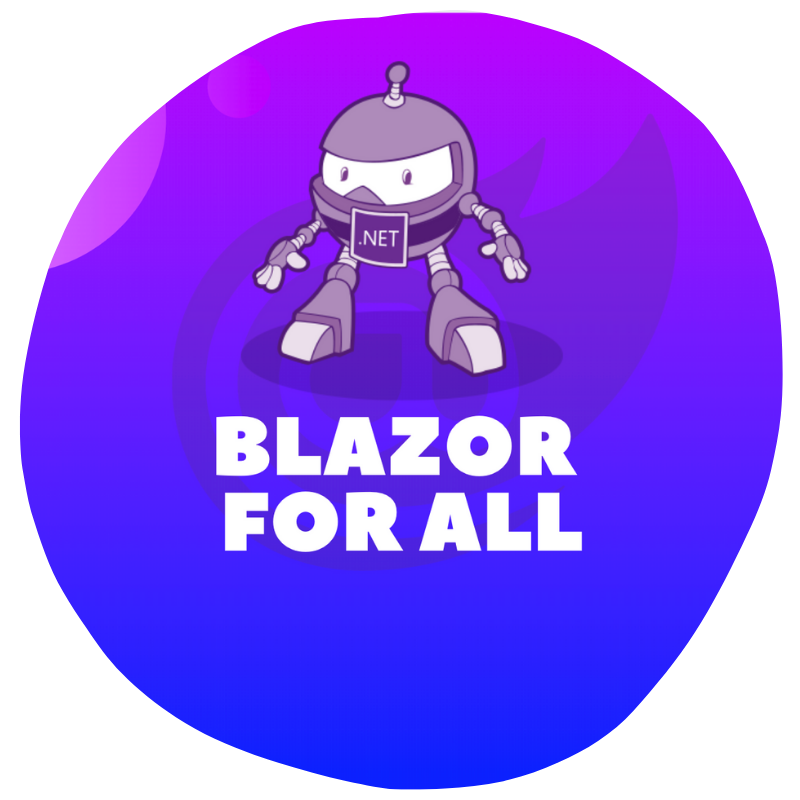
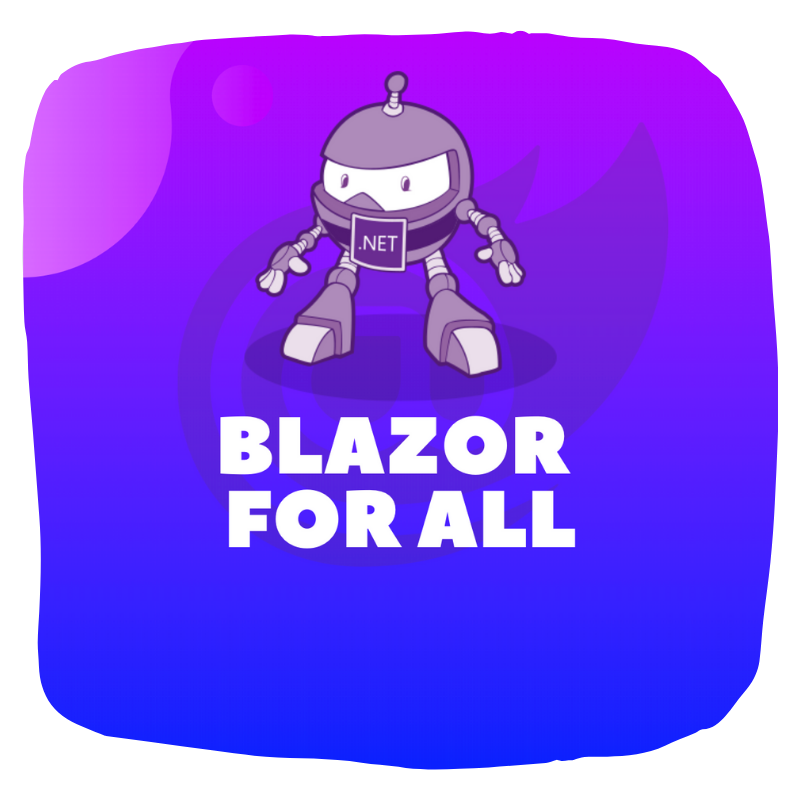
Cosmetic changes, colors, margins, changes in names for CSS rules (more generic names), navbar borders, background color for carousel section

diff --git a/index.html b/index.html
@@ -14,6 +14,7 @@
       <meta name="description" content="">
       
       <link rel="stylesheet" href="https://maxcdn.bootstrapcdn.com/bootstrap/4.0.0/css/bootstrap.min.css" integrity="sha384-Gn5384xqQ1aoWXA+058RXPxPg6fy4IWvTNh0E263XmFcJlSAwiGgFAW/dAiS6JXm" crossorigin="anonymous">
+      <link rel="stylesheet" href="https://stackpath.bootstrapcdn.com/font-awesome/4.7.0/css/font-awesome.min.css">
       <link rel="stylesheet" href="css/landing-page.css"> 
 
       <!-- favicon.ico. Place these in the root directory. -->
@@ -47,7 +48,9 @@
             <!-- Fixed navbar -->
             <nav class="navbar navbar-expand-md navbar-dark fixed-top bg-dark blazor-navbar">
               <div class="navbar-brand" href="index.html#">
-                <img class="blazor-logo" src="img/blazorLogo.png" alt="Blazor for all">
+                <a href="https://dotnet.microsoft.com/apps/aspnet/web-apps/blazor" target="_blank">
+                  <img class="blazor-logo" src="img/blazorLogo.png" alt="Blazor for all">
+                </a>
               </div>
               <button class="navbar-toggler" type="button" data-toggle="collapse" data-target="#navbarCollapse" aria-controls="navbarCollapse" aria-expanded="false" aria-label="Toggle navigation">
                 <span class="navbar-toggler-icon"></span>
@@ -75,15 +78,15 @@
           <main role="main" class="container-fluid">
 
             <section id="info" class="row">
-              <div class="col-sm-12 offset-md-2 col-md-5 mt-3 text-left">
-                <h1 class="mt-5 font-weight-bold">BLAZOR FOR ALL</h1>
-                <h3 class="font-weight-bold">September 21th</h3>
+              <div class="col-sm-12 offset-md-2 col-md-4 mt-3 text-left">
+                <h1 class="main-title font-weight-bold">BLAZOR FOR ALL</h1>
+                <h3 class="subtitle font-weight-bold mt-4">September 21th</h3>
                 <br />
-                <button type="button" class="btn btn-primary">Save the Date!</button>
+                <button type="button" class="btn btn-primary btn-lg btn-blazor-for-all">Save the Date!</button>
                 <a href="https://www.facebook.com/dotnet"><img class="img-fluid" src="img/facebook.svg" alt="Facebook event"></a>
                 <a href="https://twitter.com/search?q=%23dotnetconf"><img class="img-fluid" src="img/twitter.svg" alt="Join the conversation on Twitter"></a>
               </div>
-              <div class="col-sm-12 col-md-3 mt-3">
+              <div class="col-sm-12 col-md-4 mt-3">
                 <img class="img-blazor-promo" src="img/BlazorForAll_Promo.png" alt="Blazor Promo Image" />
               </div>
               <div class="col-sm-12 offset-md-2 col-md-8">
@@ -112,7 +115,7 @@
 
             <section class="row">
                 <div id="agenda" class="col-sm-12 offset-md-2 col-md-8">
-                    <h2 class="text-agenda font-weight-bold text-center">AGENDA</h2>
+                    <h2 class="text-subtitle text-agenda font-weight-bold text-center">AGENDA</h2>
                     <br />
                     <table class="table">
                         <thead class="thead-dark">
@@ -156,50 +159,49 @@
                           </tr>
                         </tbody>
                       </table>
-
-                </div>
-                <br />
-                <div id="multimedia" class="col-sm-12 col-md-5">
-                    <div id="myCarousel" class="carousel slide" data-ride="carousel">
-                        <!-- Carousel indicators -->
-                        <ol class="carousel-indicators">
-                            <li data-target="#myCarousel" data-slide-to="0" class="active"></li>
-                            <li data-target="#myCarousel" data-slide-to="1"></li>
-                            <li data-target="#myCarousel" data-slide-to="2"></li>
-                            <li data-target="#myCarousel" data-slide-to="3"></li>
-                        </ol>
-                        <!-- Wrapper for carousel items -->
-                        <div class="carousel-inner">
-                            <div class="carousel-item active">
-                                <img class="flyer-img" src="img/Flyer_Chris.jpeg" alt="First Slide">
-                            </div>
-                            <div class="carousel-item">
-                                <img class="flyer-img" src="img/Flyer_Girl.jpg" alt="Second Slide">
-                            </div>
-                            <div class="carousel-item">
-                                <img class="flyer-img" src="img/Flyer_Chris.jpeg" alt="Third Slide">
-                            </div>
-                            <div class="carousel-item">
-                              <img class="flyer-img" src="img/Flyer_Girl_02.jpg" alt="Third Slide">
-                          </div>
-                        </div>
-                        <!-- Carousel controls -->
-                        <a class="carousel-control-prev" href="#myCarousel" data-slide="prev">
-                            <span class="carousel-control-prev-icon"></span>
-                        </a>
-                        <a class="carousel-control-next" href="#myCarousel" data-slide="next">
-                            <span class="carousel-control-next-icon"></span>
-                        </a>
-                    </div>
                 </div>
             </section>
-            <br />
-            <br />
-            <br />
+                        
+            <section class="row carousel-container">
+              <div id="multimedia" class="col-sm-12 col-md-4">
+                <div id="myCarousel" class="carousel slide" data-ride="carousel">
+                    <!-- Carousel indicators -->
+                    <ol class="carousel-indicators">
+                        <li data-target="#myCarousel" data-slide-to="0" class="active"></li>
+                        <li data-target="#myCarousel" data-slide-to="1"></li>
+                        <li data-target="#myCarousel" data-slide-to="2"></li>
+                        <li data-target="#myCarousel" data-slide-to="3"></li>
+                    </ol>
+                    <!-- Wrapper for carousel items -->
+                    <div class="carousel-inner">
+                        <div class="carousel-item active">
+                            <img class="flyer-img" src="img/Flyer_Chris.jpeg" alt="First Slide">
+                        </div>
+                        <div class="carousel-item">
+                            <img class="flyer-img" src="img/Flyer_Girl.jpg" alt="Second Slide">
+                        </div>
+                        <div class="carousel-item">
+                            <img class="flyer-img" src="img/Flyer_Chris.jpeg" alt="Third Slide">
+                        </div>
+                        <div class="carousel-item">
+                          <img class="flyer-img" src="img/Flyer_Girl_02.jpg" alt="Third Slide">
+                      </div>
+                    </div>
+                    <!-- Carousel controls -->
+                    <a class="carousel-control-prev" href="#myCarousel" data-slide="prev">
+                        <span class="carousel-control-prev-icon"></span>
+                    </a>
+                    <a class="carousel-control-next" href="#myCarousel" data-slide="next">
+                        <span class="carousel-control-next-icon"></span>
+                    </a>
+                </div>
+              </div>
+            </section>
+                    
             <section class="row">
               <div id="organizers" class="container col-sm-12 offset-md-2 col-md-8">
                 <hr />
-                <h2 class="text-agenda text-organizers font-weight-bold text-center">ORGANIZADORES</h2>
+                <h2 class="text-subtitle font-weight-bold text-center">ORGANIZADORES</h2>
                 <br />
                 <div class="logo-container offset-md-2">
                   <a href="https://latinonet.online/" target="_blank"><img class="organizer-logo" src="img/latinonetlogo.png" alt="Latino net"></a>
@@ -213,12 +215,11 @@
             <br />
             <br />
             <br />
-            <br />
-            <br />
-            <br />
+
             <section class="row">
               <div id="sponsors" class="container col-sm-12 offset-md-2 col-md-8">
-                <h2 class="text-agenda font-weight-bold text-center">PATROCINADORES</h2>
+                <hr />
+                <h2 class="text-subtitle font-weight-bold text-center">PATROCINADORES</h2>
                 <br />
                 <div class="logo-container offset-md-2">
                   <a href="https://net-university.ninja/" target="_blank"><img class="sponsor-logo" src="img/netuniversity.png" alt="Net University" /></a>
@@ -227,15 +228,11 @@
                 </div>
               </div>
             </section>
-            
           </main>
       
           <footer class="footer">
-            <div class="container">
-              <span class="text-white"> © 2020 
-                    <a href="https://latinonet.online/" target="_blank">Latino NET Online</a> &emsp;
-                    <a href="https://dotnetfoundation.org/about/code-of-conduct" target="_blank">Code of Conduct</a> &nbsp;|&nbsp;
-                    <a href="https://dotnetfoundation.org/about/privacy-policy" target="_blank">Privacy Policy</a></span>
+            <div class="container text-center">
+              <span class="text-white">Made with <i class="fa fa-heart" aria-hidden="true"></i> in <a class="footer-link" href="https://dotnet.microsoft.com/apps/aspnet/web-apps/blazor" target="_blank">BLAZOR</a>
             </div>
           </footer>
           

diff --git a/css/landing-page.css b/css/landing-page.css
@@ -11,33 +11,50 @@ body {
     margin-bottom: 15em;
 }
 
-.parallax-window {
-  min-height: 600px;
-  background: transparent;
+
+h1.main-title {
+  color: #512bd4;
+  font-size: 4.3rem;
+  margin-top: 3em
 }
 
-.parallax-row{
-  background-color: #000000;
+h3.subtitle{
+  color: #666666;
 }
 
-.h1, h1 {
-    font-size: 4.5rem;
-    color: #512bd4;
-    font-weight: 550;
+.btn-blazor-for-all {
+  background-color: #512bd4;
+  border-radius: 0.6rem;
+  border-color: #512bd4;
 }
 
-.text-agenda {
-    color: #2fafda;
+.btn-primary:hover, .btn-blazor-for-all:hover{
+  color: #2fafda;
+  background-color: #f5ecec;
+  border-color: #c7c7c7;
 }
 
-.text-organizers {
+.btn-primary:not(:disabled):not(.disabled).active, .btn-primary:not(:disabled):not(.disabled):active, .show>.btn-primary.dropdown-toggle,
+.btn-blazor-for-all:not(:disabled):not(.disabled).active, .btn-blazor-for-all:not(:disabled):not(.disabled):active, .show>.btn-blazor-for-all.dropdown-toggle {
+  color: #2fafda;
+  background-color: #f5ecec;
+  border-color: #c7c7c7;
+}
+
+
+
+.text-subtitle {
   color: #2fafda;
   margin: 3.5rem 0 3.5rem 0;
 }
 
+.text-agenda {
+  margin: 0;
+}
+
 .blazor-navbar{
     background-color: #f2f2f2!important;
-    text-decoration: underline;
+    border-bottom: #c7c7c7 solid 1px;
 }
 
 @media (min-width: 768px){
@@ -61,21 +78,48 @@ body {
 }
 .navbar-dark .navbar-nav .nav-link:focus, .navbar-dark .navbar-nav .nav-link:hover {
   color: rgba(0,0,255,.75);
+  text-decoration: underline;
 }
 
 .img-blazor-promo {
-  width: 75%;
+  width: 100%;
+}
+
+.parallax-window {
+  min-height: 600px;
+  background: transparent;
+}
+
+.parallax-row{
+  background-color: #000000;
+}
+
+
+
+.table {
+  text-align: center;
+}
+
+.table .thead-dark th {
+  background-color: #512bd4;
+    border-color: #5125ef;
+}
+
+.carousel-container {
+  background-color: #fbfbfb;
+  margin-top: 2em;
+  margin-bottom: 4em;
 }
 
 #multimedia{
-  margin-left: auto;
   margin-right: auto;
+  margin-left: auto;
 }
-
+/* 
 .carousel {
     background: #2f4357;
     margin-top: 20px;
-}
+} */
 
 .carousel-item {
     text-align: center;
@@ -110,12 +154,13 @@ body {
     padding-left: 15px;
   }
   
-  code {
-    font-size: 80%;
-  }
-  .footer a {
+  .footer a.footer-link {
       color: #fff;
   }
+  .footer a.footer-link:hover {
+    color: #fff;
+    text-decoration: underline;
+}
 
 .blazor-logo
 {
